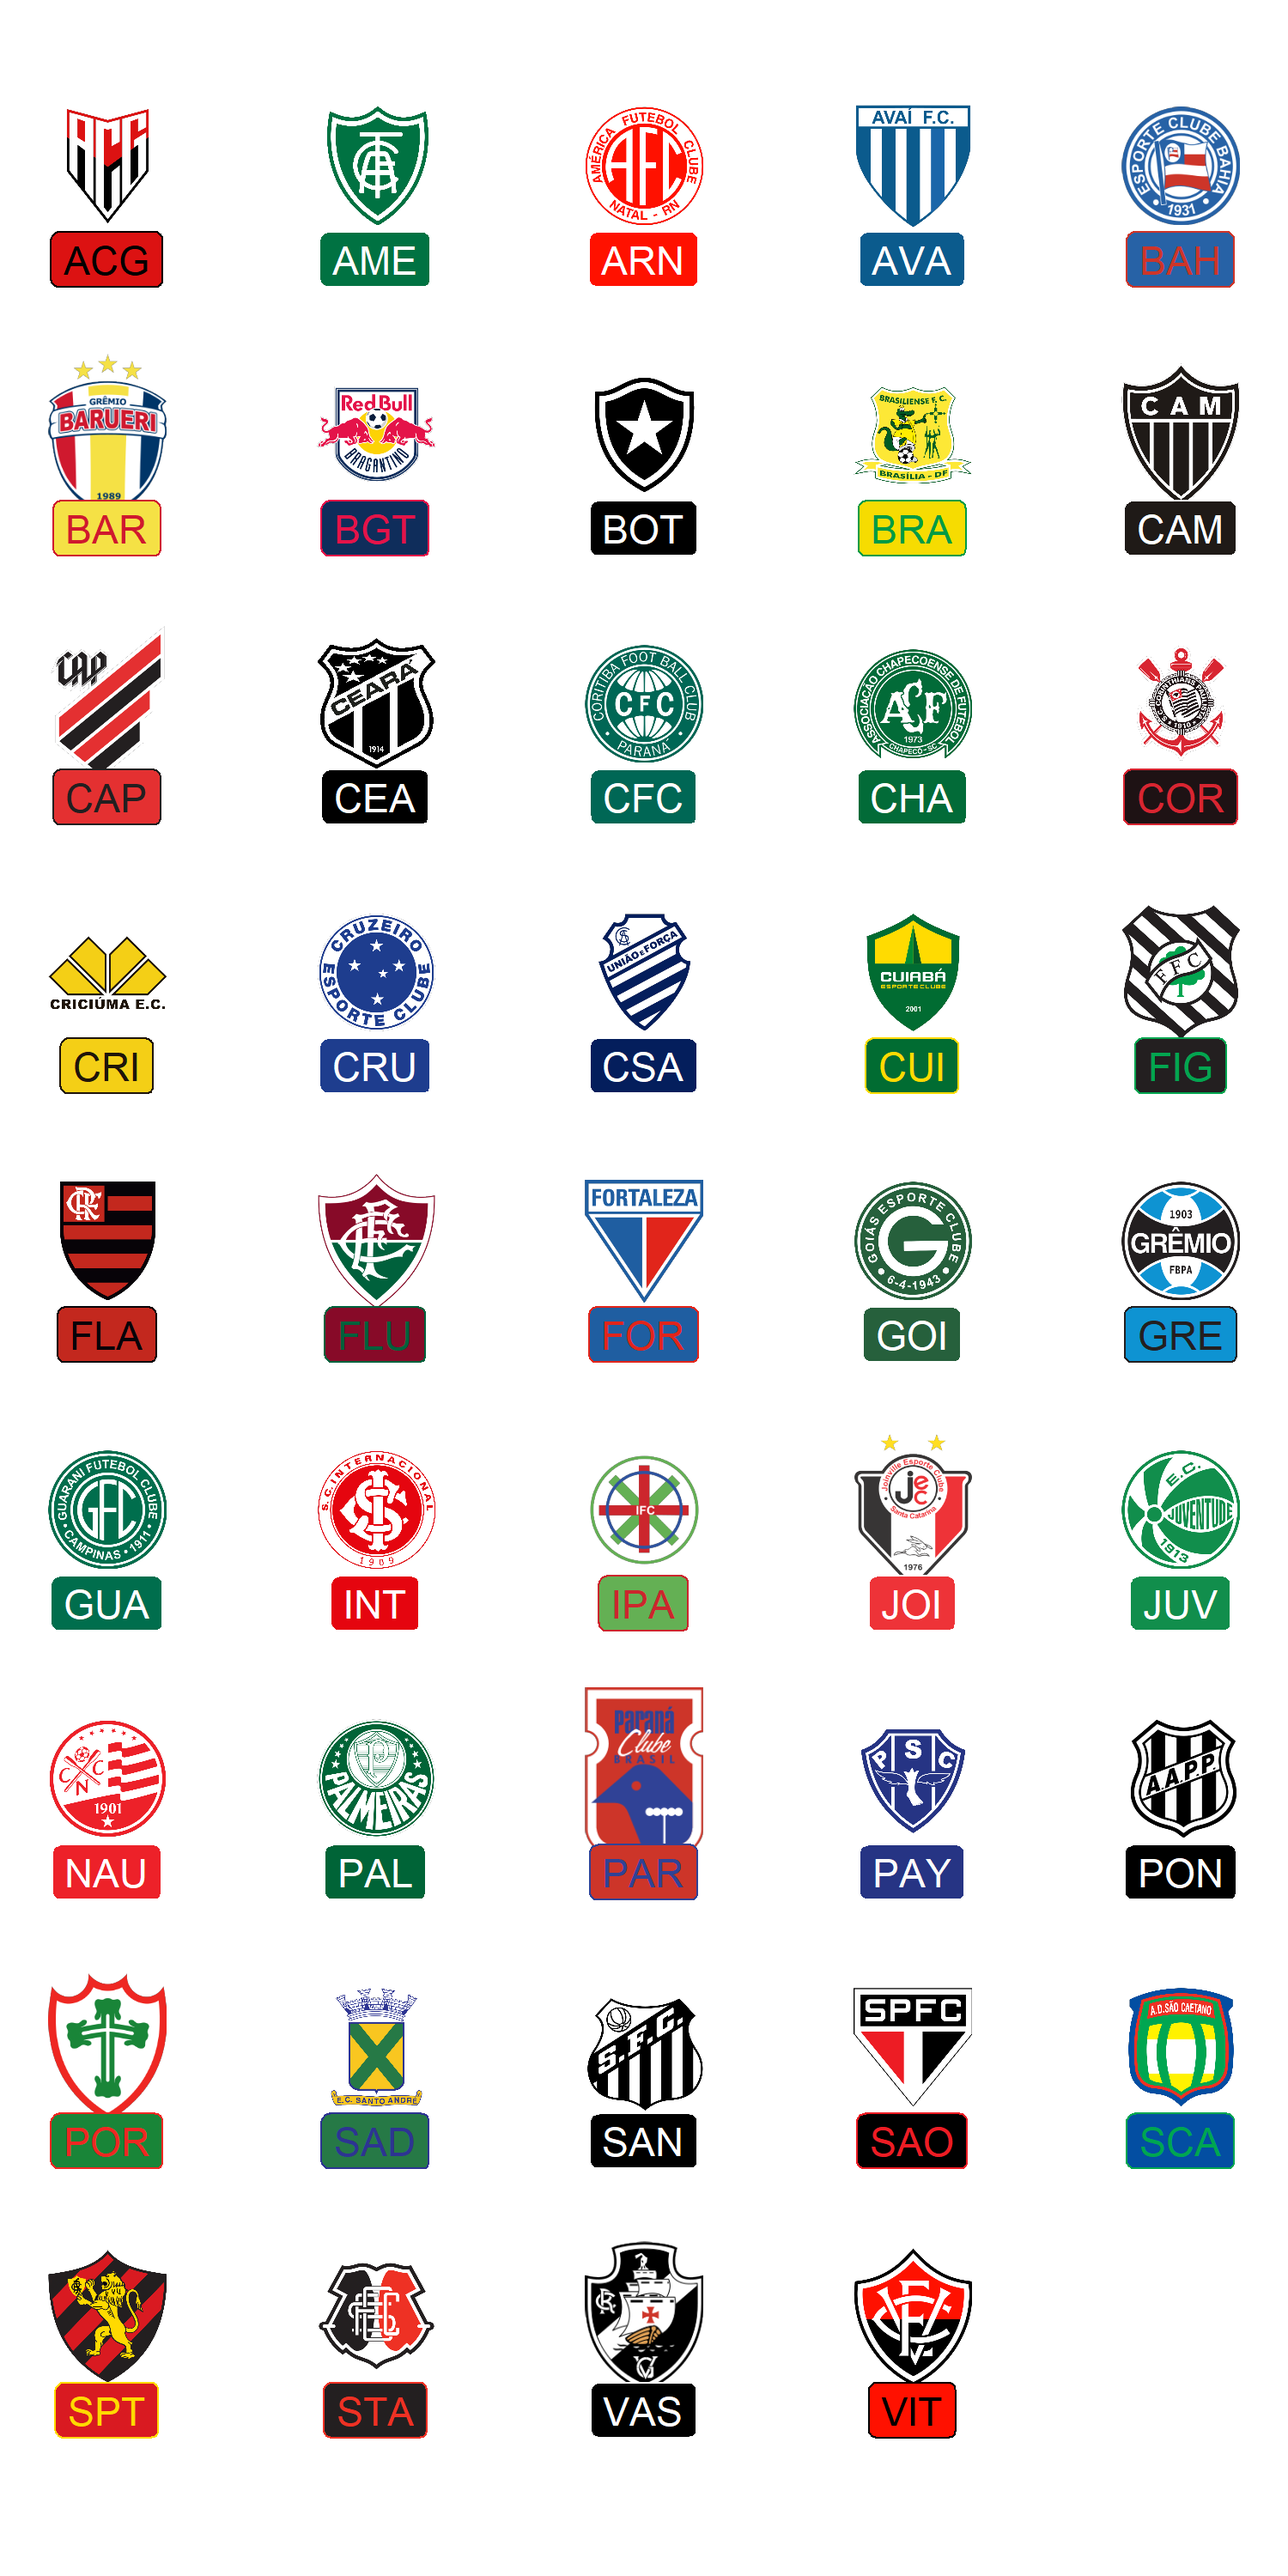
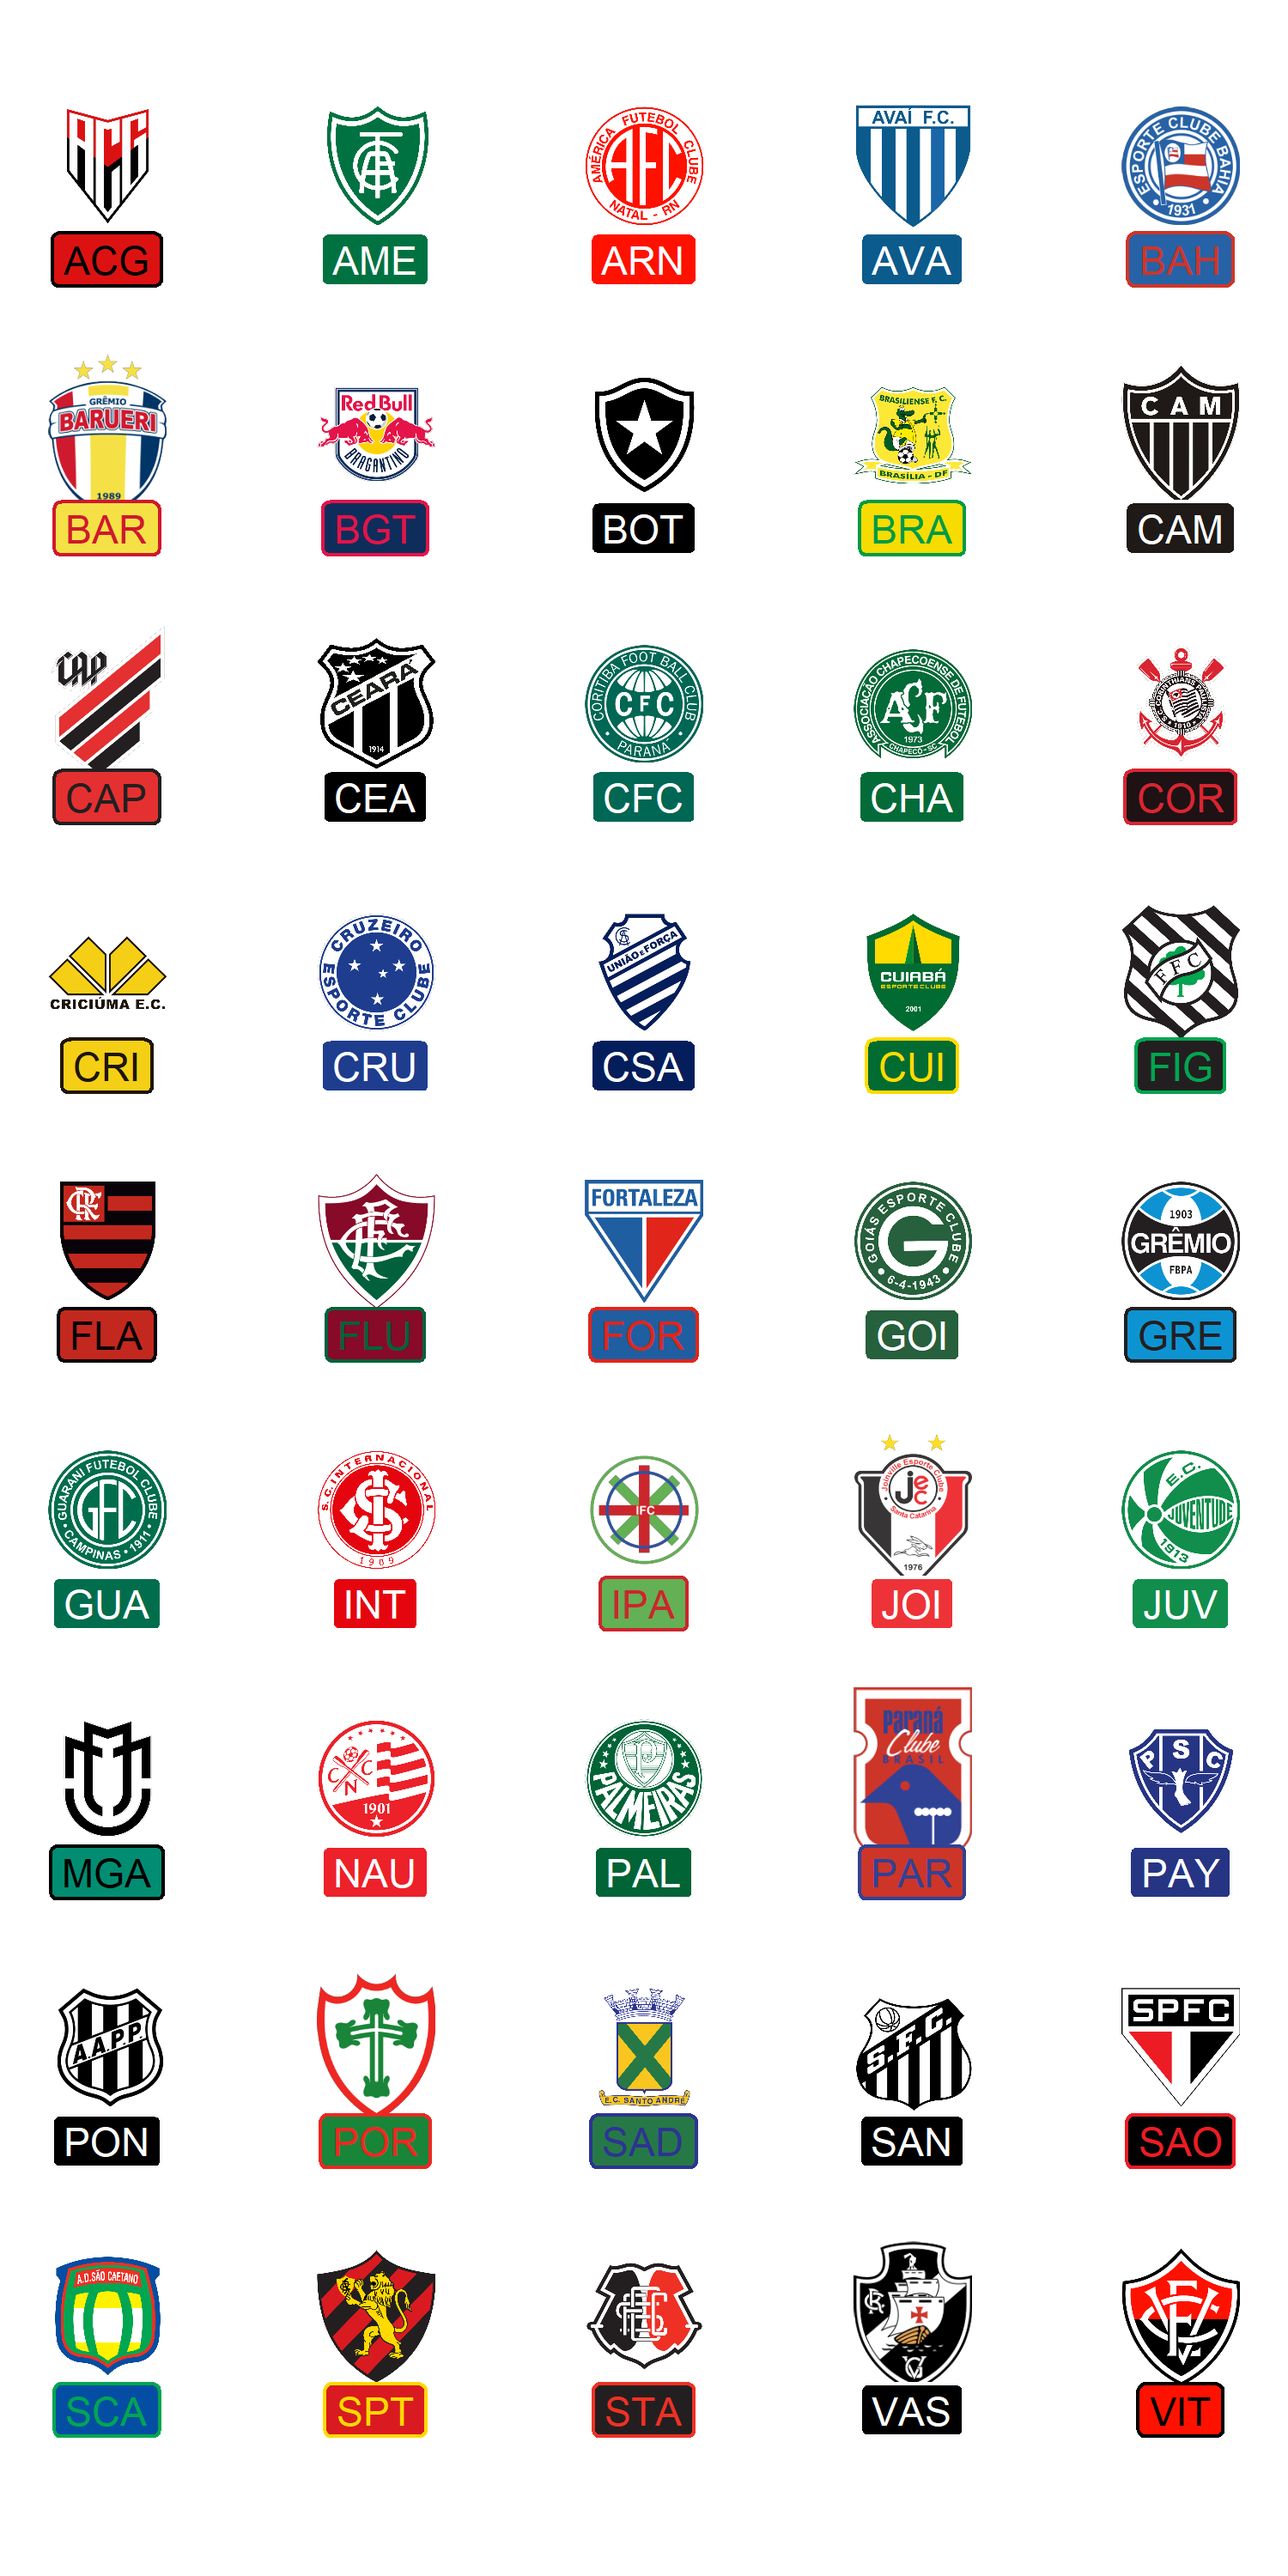
add MGA

diff --git a/README.md b/README.md
@@ -52,16 +52,18 @@ library(ggplot2)
 team <- futebolplotR::valid_team_names()
 
 df <- data.frame(
-  a = c(rep(1:5, 8),c(1,2,3,4)),
-  b = sort(c(rep(1:8, 5), c(0,0,0,0)), decreasing = TRUE),
+  a = c(rep(1:5, 9)),
+  b = sort(c(rep(1:9, 5)), decreasing = TRUE),
   teams = team
 )
 
 ggplot(df, aes(x = a, y = b)) +
-  geom_futebol_badges(aes(team_abbr = teams), width = 0.1) +
+  geom_futebol_badges(aes(team_abbr = teams), 
+                      width = 0.1) +
   geom_label(aes(label = teams,
                  color = teams,
                  fill = teams),
+             linewidth = 0.5,
              nudge_y = -0.35)+
   scale_color_futebol(type = "secondary")+
   scale_fill_futebol(type = "primary")+
